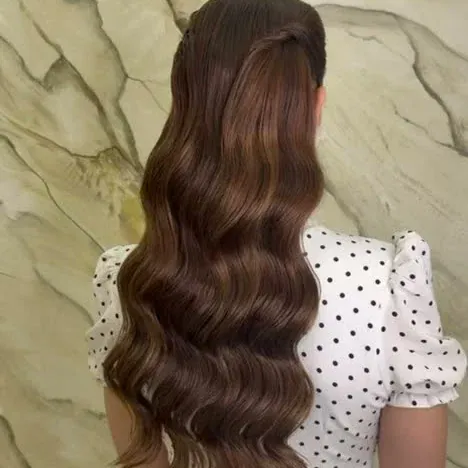
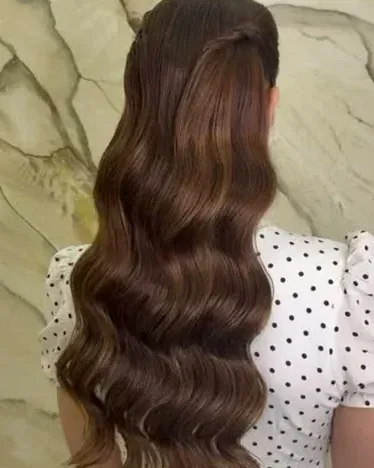
Все фото приведены к единому формату 4:5, ничего не режется
Раньше кадрирование делал CSS через object-fit, и точку приходилось
угадывать. Теперь каждый файл обрезан под формат слота заранее —
что в файле, то и на экране. Видимость кадра: 98–100% против 50–69%
неделю назад.

Разобрано по снимкам:
- брови: было видно один глаз, второй уходил за край. Теперь в кадре
  оба — и до, и после;
- солярий: кадр был почти чёрный, поднял яркость и контраст;
- кератин в карточке «Волосы»: голова была срезана, сдвинул кадр вверх;
- вечерний образ, блонд, макияж, перламутр: лица и руки были
  обрезаны по центру, теперь в кадре целиком;
- маникюр с длиной: малиновые цветы забивали работу, кадр смещён
  на руку;
- первый экран: в кадр попала вывеска на зеркале.

Слот первого экрана переведён с min-height на aspect-ratio 4/5,
поэтому пропорция одинаковая на всех ширинах. Все object-position
из разметки убраны — они больше не нужны и только мешали бы.

diff --git a/index.html b/index.html
@@ -338,7 +338,7 @@ section[id],#top{scroll-margin-top:98px}
 }
 .trust span{display:block;font-size:13px;color:var(--muted);margin-top:5px;line-height:1.4}
 .hero-photo{position:relative}
-.hero-photo .photo-slot{min-height:460px}
+.hero-photo .photo-slot{aspect-ratio:4/5}
 .hero-badge{
   position:absolute;left:-26px;bottom:34px;background:var(--surface);
   border:1px solid var(--line);border-radius:var(--radius-sm);box-shadow:var(--shadow-lift);
@@ -703,7 +703,7 @@ section[id],#top{scroll-margin-top:98px}
   .nav{gap:20px}
   .nav a{font-size:14px}
   .hero-grid{gap:44px}
-  .hero-photo .photo-slot{min-height:440px}
+
   .gal{grid-template-columns:repeat(3,1fr)}
 }
 /* Между 900 и 1080 меню, телефон и кнопка перестают помещаться в строку —
@@ -728,7 +728,7 @@ section[id],#top{scroll-margin-top:98px}
   .logo{margin-right:auto}
   .hero-grid{grid-template-columns:1fr;gap:44px}
   .hero-sub{max-width:none}
-  .hero-photo .photo-slot{min-height:340px}
+
   .hero-badge{left:auto;right:20px;bottom:-20px}
   .award{top:-16px;right:8px;width:98px;height:98px}
   .aw-y{font-size:16px}
@@ -997,7 +997,7 @@ section[id],#top{scroll-margin-top:98px}
 
         <!-- Волосы -->
         <article class="svc rv">
-          <div class="photo-slot has-photo" role="img" aria-label="Фотография результата окрашивания волос в салоне Мадонна"><img src="photos/hair-keratin.webp" alt="Длинные гладкие волосы после кератинового выпрямления в салоне «Мадонна»" style="object-position:center 20%" loading="lazy" decoding="async"></div>
+          <div class="photo-slot has-photo" role="img" aria-label="Фотография результата окрашивания волос в салоне Мадонна"><img src="photos/hair-keratin.webp" alt="Длинные гладкие волосы после кератинового выпрямления в салоне «Мадонна»" loading="lazy" decoding="async"></div>
           <div class="svc-body">
             <h3>Волосы</h3>
             <ul class="svc-list">
@@ -1861,19 +1861,19 @@ section[id],#top{scroll-margin-top:98px}
      иначе ряд выглядит однообразно. Добавляете снимок — вставляйте его
      между работами другого направления. */
   var GALLERY = [
-    {src:'haircut.webp',        cap:'Женская стрижка на длинные волосы', pos:'center 22%'},
+    {src:'haircut.webp',        cap:'Женская стрижка на длинные волосы'},
     {src:'manicure-nude.webp',  cap:'Маникюр в нюдовом оттенке'},
     {src:'makeup-blonde.webp',  cap:'Макияж и укладка'},
-    {src:'hair-blonde.webp',    cap:'Окрашивание в блонд', pos:'center 18%'},
+    {src:'hair-blonde.webp',    cap:'Окрашивание в блонд'},
 
     {src:'manicure-gold.webp',  cap:'Маникюр с золотой поталью'},
-    {src:'hair-waves.webp',     cap:'Голливудские локоны', pos:'center 20%'},
+    {src:'hair-waves.webp',     cap:'Голливудские локоны'},
     {src:'pedicure.webp',       cap:'Педикюр с французским покрытием'},
     {src:'evening-look.webp',   cap:'Вечерний образ: укладка, макияж, маникюр'},
 
-    {src:'hair-shine.webp',     cap:'Кератиновое выпрямление', pos:'center 18%'},
+    {src:'hair-shine.webp',     cap:'Кератиновое выпрямление'},
     {src:'manicure-pearl.webp', cap:'Маникюр с перламутровым покрытием'},
-    {src:'hair-styling.webp',   cap:'Укладка на длинные волосы', pos:'center 20%'},
+    {src:'hair-styling.webp',   cap:'Укладка на длинные волосы'},
     {src:'manicure-pink.webp',  cap:'Маникюр с длиной'}
   ];
 
